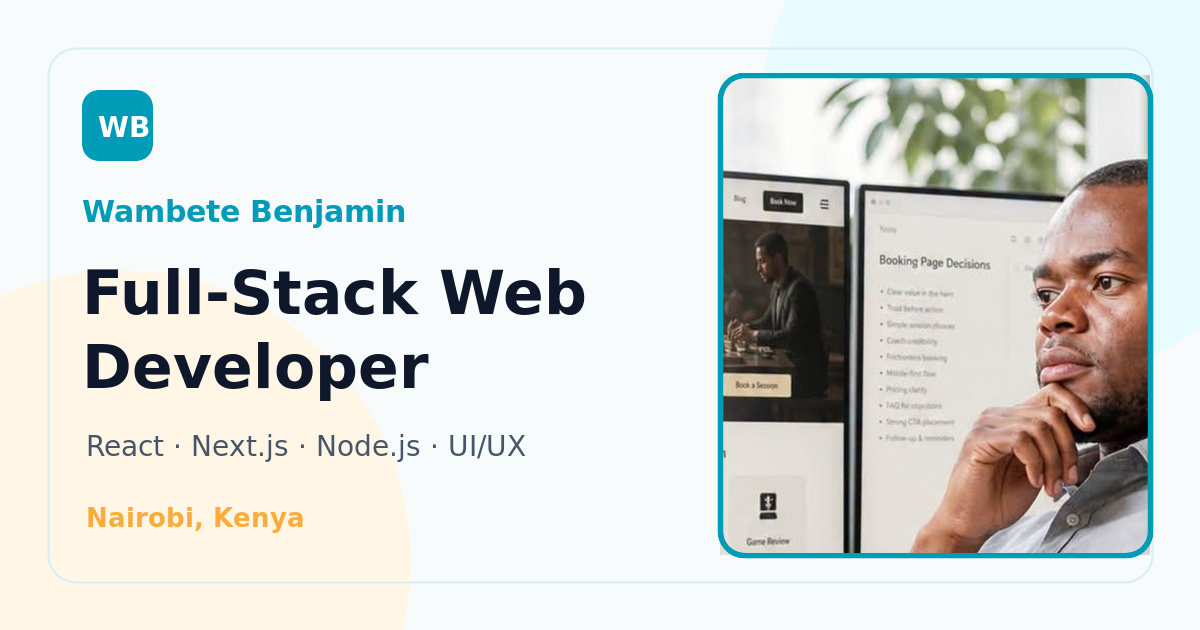
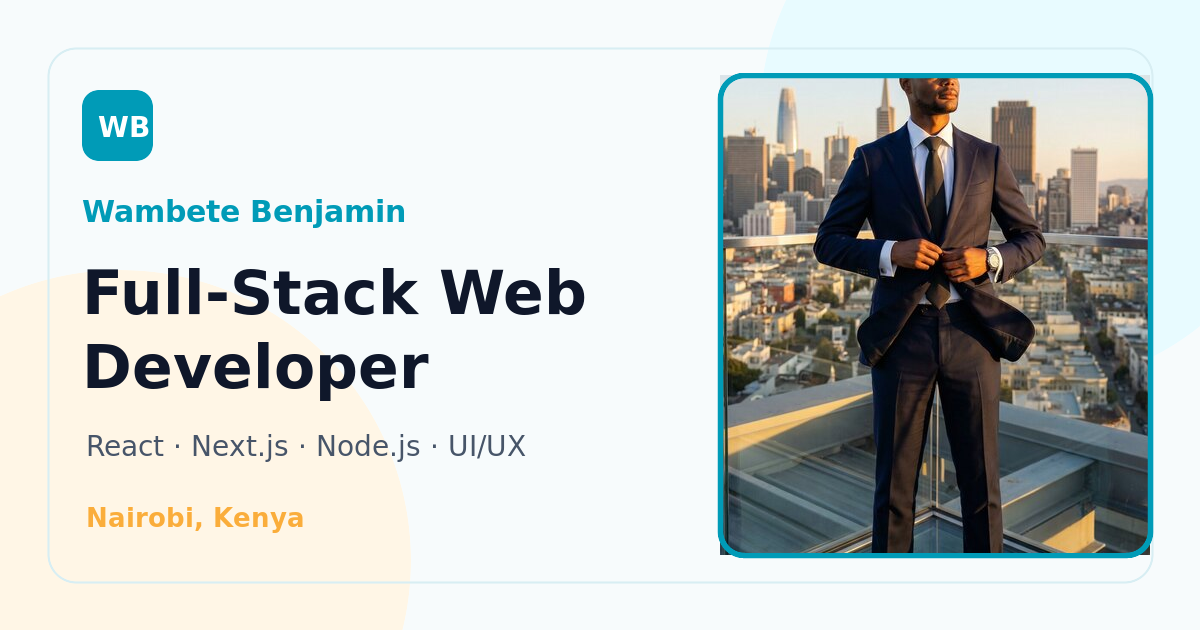
Use alternate photos and update email link

Changed region(s): [[0.5858, 0.1206, 0.9558, 0.9048]]

diff --git a/lib/site.ts b/lib/site.ts
@@ -20,7 +20,7 @@ export const site = {
   description:
     "Wambete Benjamin is a full-stack web developer & UI/UX designer based in Nairobi, Kenya. He builds fast, beautiful web apps with React, Next.js and Node.js. 5+ years experience, 50+ projects, 30+ happy clients.",
   url: process.env.NEXT_PUBLIC_SITE_URL || "https://wambetebenjamin.vercel.app",
-  email: "hello@wambetebenjamin.dev",
+  email: "shambetz@gmail.com",
   phone: "+254 112 272 061",
   phoneHref: "+254112272061",
   location: "Nairobi, Kenya",
@@ -190,7 +190,7 @@ export const posts: Post[] = [
     category: "Web Development",
     readTime: "8 min read",
     date: "2026-09-12",
-    image: "/images/wambete-benjamin-workspace.jpg",
+    image: "/images/wambete-benjamin-street.jpg",
     body: [
       "Every year the web platform gets a little more magical — and 2026 is no exception. The biggest shift isn't a single framework winning; it's the collapse of the distance between an idea and a deployed product. Edge runtimes, AI-assisted development and design-to-code tools are turning weeks of work into days.",
       "Edge-first is now the default architecture for new projects. Vercel, Cloudflare and Fastly all let you run full applications milliseconds away from your users, which means personalisation that used to require heavy client-side JavaScript now happens on the server without paying a latency tax.",
@@ -207,7 +207,7 @@ export const posts: Post[] = [
     category: "Performance",
     readTime: "6 min read",
     date: "2026-08-03",
-    image: "/images/wambete-benjamin-workspace.jpg",
+    image: "/images/wambete-benjamin-city.jpg",
     body: [
       "When a client came to me with a Next.js site scoring 54 on mobile Lighthouse, the fixes were less exotic than you'd expect. Performance work is mostly discipline: measure, fix the biggest cost, repeat.",
       "Images were the first villain — 3MB hero JPEGs served to every device. Moving to next/image with AVIF/WebP formats and proper sizes dropped the payload by 78% with zero visible quality loss.",
@@ -224,7 +224,7 @@ export const posts: Post[] = [
     category: "UI/UX Design",
     readTime: "5 min read",
     date: "2026-07-18",
-    image: "/images/wambete-benjamin-workspace.jpg",
+    image: "/images/wambete-benjamin-garden.jpg",
     body: [
       "A design system is not a component library — it's a shared language. The library is just the dictionary. The real value is that designers and developers stop debating the same decisions and start shipping.",
       "Start with tokens: a small set of named decisions for color, spacing, typography and radii. Ten colors, a four-point spacing scale, three font sizes per breakpoint. If a token doesn't earn its place, cut it.",

diff --git a/components/About.tsx b/components/About.tsx
@@ -69,7 +69,7 @@ export default function About() {
           >
             <div className="glow-frame relative aspect-[4/5] overflow-hidden rounded-[2rem] border-2 border-electric/25 bg-white shadow-card">
               <Image
-                src="/images/wambete-benjamin-portrait.jpg"
+                src="/images/wambete-benjamin-bridge.jpg"
                 alt="Wambete Benjamin working on a laptop"
                 fill
                 sizes="(max-width: 1024px) 90vw, 420px"
@@ -121,10 +121,14 @@ export default function About() {
                 <MapPinIcon className="h-4 w-4 text-electric" />
                 {site.location}
               </span>
-              <span className="glass inline-flex items-center gap-2 rounded-full px-4 py-2 text-sm text-slate-700">
+              <a
+                href={`mailto:${site.email}`}
+                aria-label="Email Wambete Benjamin"
+                className="glass inline-flex items-center gap-2 rounded-full px-4 py-2 text-sm text-slate-700 transition-colors hover:text-electric"
+              >
                 <MailIcon className="h-4 w-4 text-electric" />
-                {site.email}
-              </span>
+                Email me
+              </a>
             </div>
 
             {/* Counters */}

diff --git a/app/blog/[slug]/page.tsx b/app/blog/[slug]/page.tsx
@@ -82,7 +82,7 @@ export default function BlogPostPage({ params }: { params: Params }) {
               <span className="flex items-center gap-2">
                 <span className="relative h-9 w-9 overflow-hidden rounded-full ring-2 ring-electric/40">
                   <Image
-                    src="/images/wambete-benjamin-square.jpg"
+                    src="/images/wambete-benjamin-city.jpg"
                     alt="Wambete Benjamin"
                     fill
                     sizes="36px"
@@ -131,7 +131,7 @@ export default function BlogPostPage({ params }: { params: Params }) {
             <div className="glass mt-14 flex flex-col items-start gap-5 rounded-3xl p-7 sm:flex-row sm:items-center">
               <div className="relative h-16 w-16 shrink-0 overflow-hidden rounded-full ring-2 ring-electric/50">
                 <Image
-                  src="/images/wambete-benjamin-square.jpg"
+                  src="/images/wambete-benjamin-city.jpg"
                   alt="Wambete Benjamin"
                   fill
                   sizes="64px"

diff --git a/components/Contact.tsx b/components/Contact.tsx
@@ -111,7 +111,7 @@ export default function Contact() {
             <div className="glass overflow-hidden rounded-3xl">
               <div className="relative aspect-[16/10] bg-slate-100">
                 <Image
-                  src="/images/wambete-benjamin-workspace.jpg"
+                  src="/images/wambete-benjamin-rooftop.jpg"
                   alt="Wambete Benjamin reviewing interface decisions"
                   fill
                   sizes="(max-width: 1024px) 90vw, 420px"
@@ -141,7 +141,7 @@ export default function Contact() {
                           Email
                         </span>
                         <span className="text-sm font-medium text-slate-800 transition-colors group-hover:text-electric">
-                          {site.email}
+                          Email me
                         </span>
                       </span>
                     </a>

diff --git a/components/Hero.tsx b/components/Hero.tsx
@@ -163,7 +163,7 @@ export default function Hero() {
 
           <div className="glow-frame relative aspect-square overflow-hidden rounded-[2.5rem] border border-electric/30 bg-white">
             <Image
-              src="/images/wambete-benjamin-square.jpg"
+              src="/images/wambete-benjamin-garden.jpg"
               alt="Wambete Benjamin — Full-Stack Web Developer"
               fill
               priority

diff --git a/components/Footer.tsx b/components/Footer.tsx
@@ -40,7 +40,7 @@ export default function Footer() {
                 href={`mailto:${site.email}`}
                 className="transition-colors hover:text-electric"
               >
-                {site.email}
+                Email me
               </a>
             </div>
           </div>

diff --git a/app/layout.tsx b/app/layout.tsx
@@ -88,7 +88,6 @@ const personJsonLd = {
   name: site.name,
   jobTitle: "Full-Stack Web Developer",
   url: site.url,
-  email: site.email,
   telephone: site.phoneHref,
   address: {
     "@type": "PostalAddress",

diff --git a/scripts/make_cv.py b/scripts/make_cv.py
@@ -77,7 +77,7 @@ c.setFont("Helvetica", 9)
 c.setFillColor(GREY)
 c.drawString(M, y, "Nairobi, Kenya")
 c.drawString(M + 32 * mm, y, "•  +254 112 272 061")
-c.drawString(M + 78 * mm, y, "•  hello@wambetebenjamin.dev")
+c.drawString(M + 78 * mm, y, "•  shambetz@gmail.com")
 y -= 4.6 * mm
 links = "GitHub: github.com/wambetebenjamin   |   LinkedIn: linkedin.com/in/wambetebenjamin   |   Portfolio: wambetebenjamin.dev"
 c.setFont("Helvetica", 8.3)

diff --git a/README.md b/README.md
@@ -9,7 +9,9 @@ A responsive personal portfolio for **Wambete Benjamin**, a full-stack web devel
 - Light theme inspired by the uploaded `nickie-master.zip` palette: teal `#009BB7`, deep blue `#076799`, amber `#FAAD3B`, clean white and soft light backgrounds.
 - Branding uses the full **Wambete Benjamin** name throughout.
 - Solid button fills only — no gradient-filled buttons.
-- Personal photos are used for the hero, about, contact, and blog author areas.
+- The previously overused desk photo is deleted and not used anywhere.
+- The five alternate personal photos are used across the hero, about, blog, contact, and social preview areas.
+- The email address is used only behind mail icons/links and is not displayed as visible text on the website.
 - Generic testimonials/reviews have been removed from the homepage.
 - Facebook social links were removed.
 
@@ -44,9 +46,11 @@ public/cv/                 # CV download
 
 ## Personal photo assets
 
-- `public/images/wambete-benjamin-square.jpg` — hero/avatar/blog author image
-- `public/images/wambete-benjamin-portrait.jpg` — about portrait
-- `public/images/wambete-benjamin-workspace.jpg` — contact/workspace image
+- `public/images/wambete-benjamin-bridge.jpg`
+- `public/images/wambete-benjamin-garden.jpg`
+- `public/images/wambete-benjamin-rooftop.jpg`
+- `public/images/wambete-benjamin-street.jpg`
+- `public/images/wambete-benjamin-city.jpg`
 
 ## License
 
